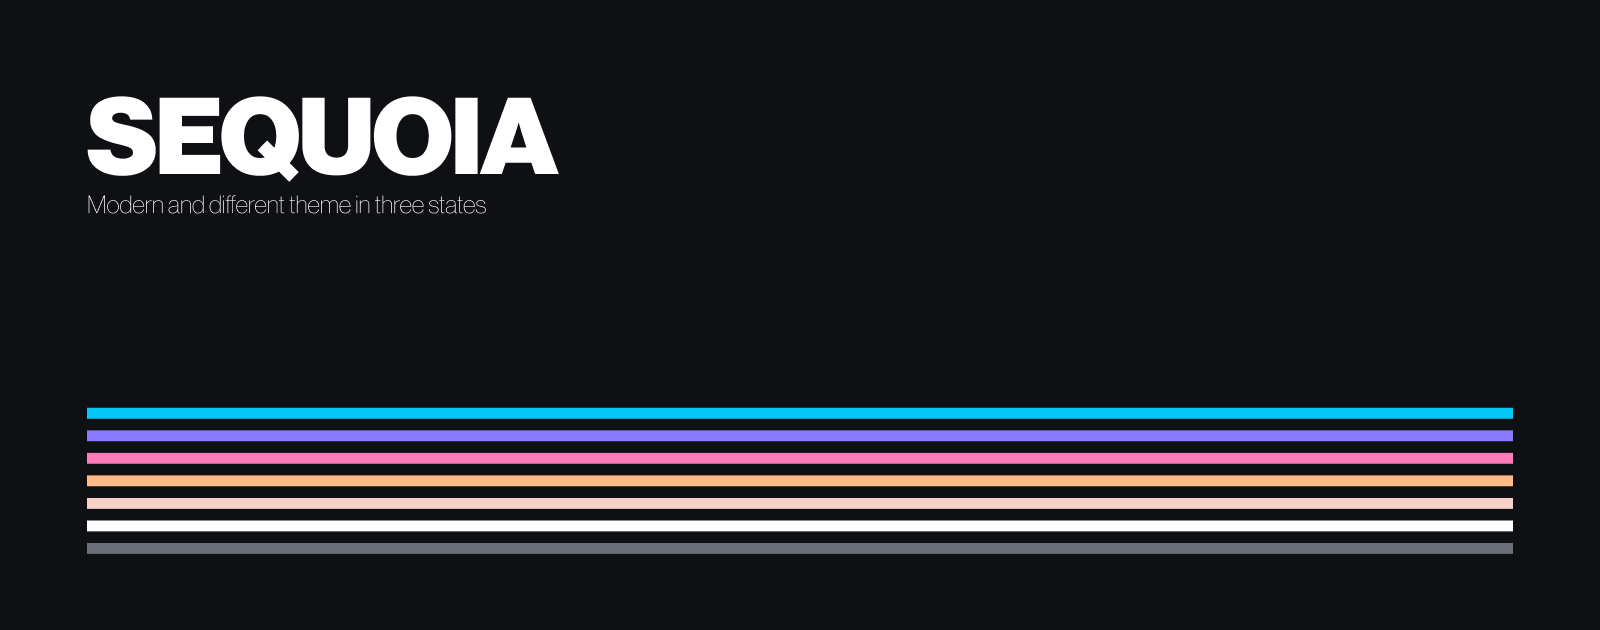
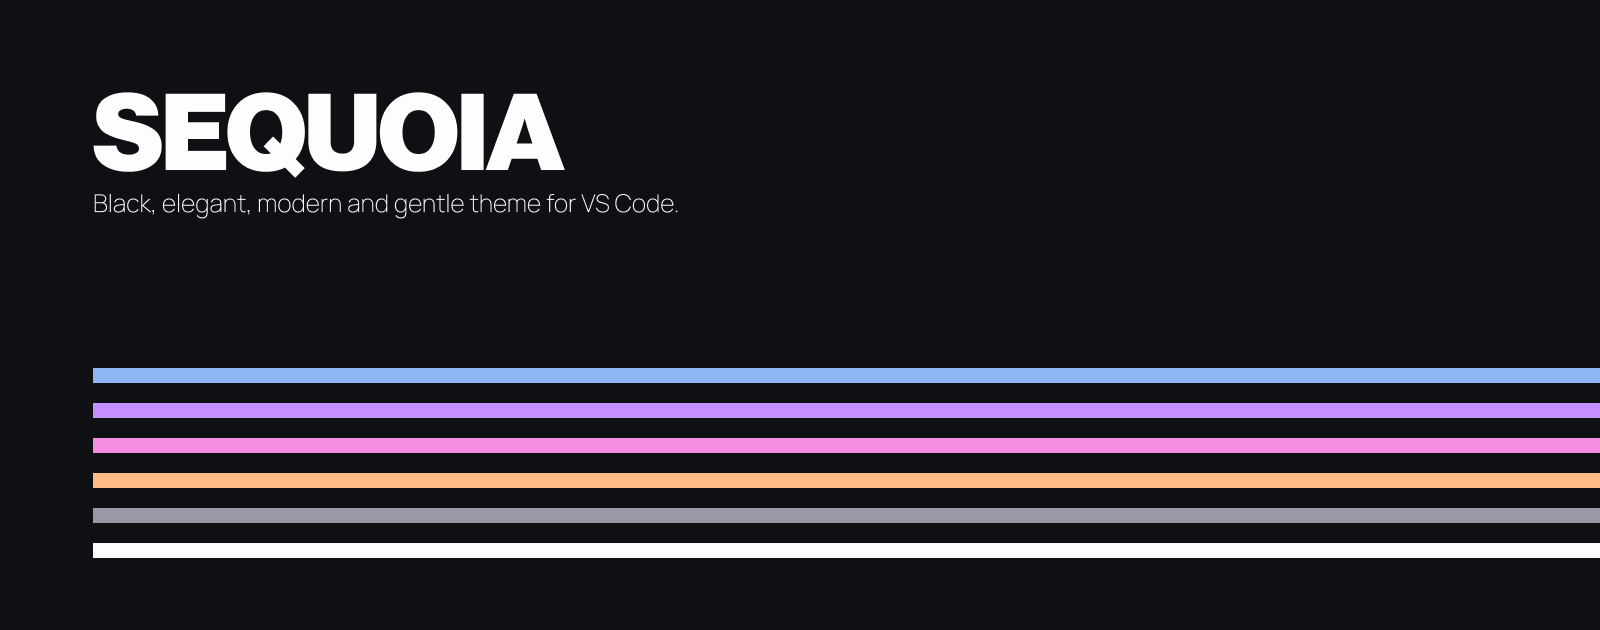
removed desaturated

Changed region(s): [[0.0312, 0.573, 1.0, 0.9048], [0.0312, 0.1508, 0.4375, 0.3619]]

diff --git a/src/partials/landing/hero.html b/src/partials/landing/hero.html
@@ -6,9 +6,9 @@
         229.7deg,
         #fdfdfe 14.85%,
         #ffbb88 20.61%,
-        #ff7cba 26.17%,
-        #887bff 31.93%,
-        #03c7f6 46.54%,
+        #f58ee0 26.17%,
+        #c58fff 31.93%,
+        #8eb6f5 46.54%,
         #0f1014 54.36%
       );
     "
